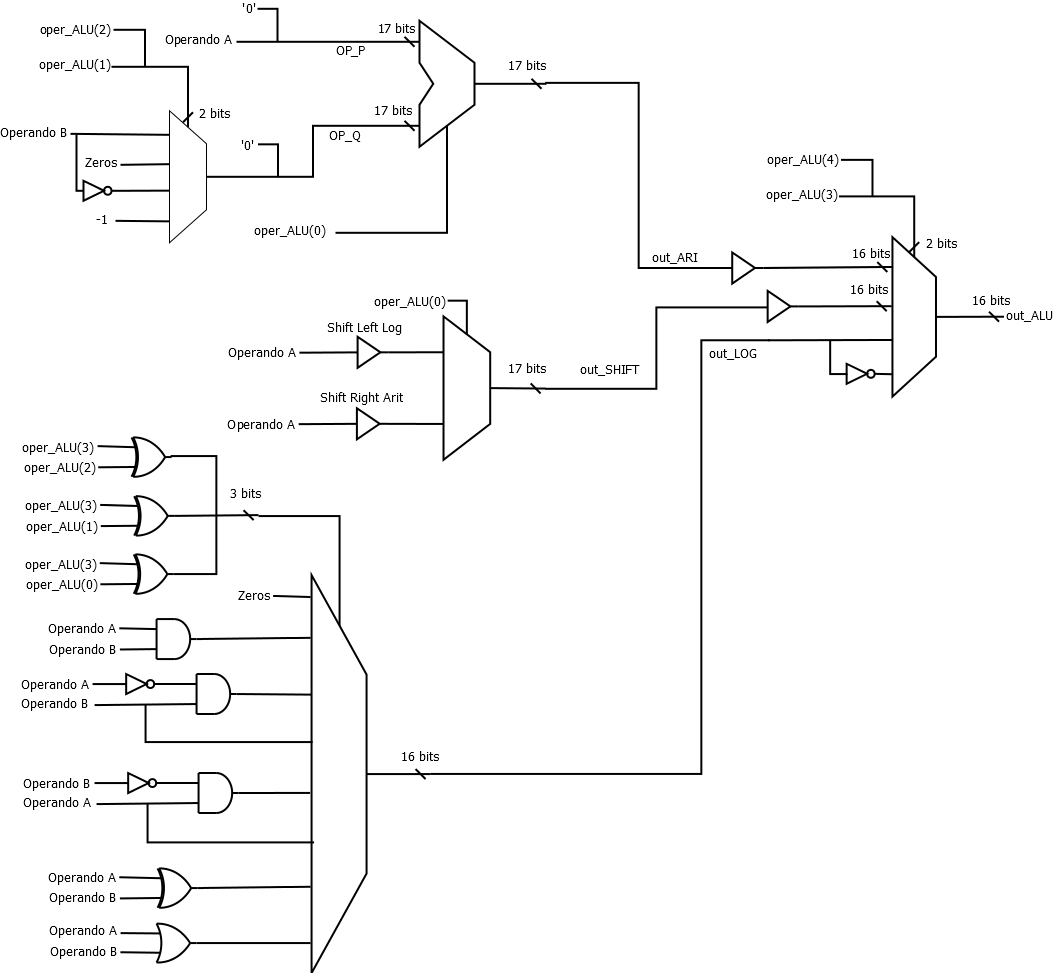
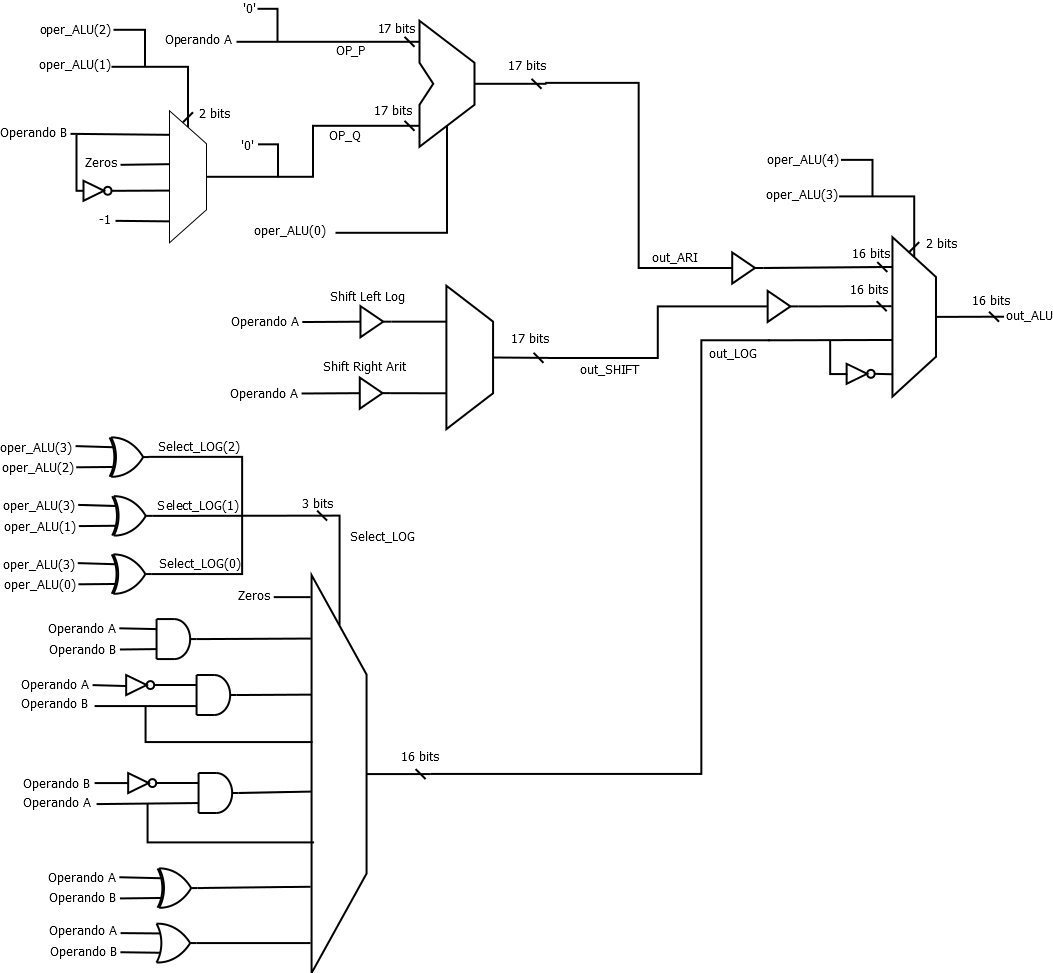
ALU 1.9

diff --git a/relatorio lab1/aac_lab1.tex b/relatorio lab1/aac_lab1.tex
@@ -154,12 +154,17 @@ No caso das operações lógicas, que representam 16 operações, fez-se um esfo
 
 TABELA
 
-Ao observar o sinal \texttt{oper\_ALU(2 {\footnotesize downto} 0)}
+Ao observar o sinal \texttt{oper\_ALU(2 {\footnotesize downto} 0)} e as suas operações podemos perceber que quando temos um valor específico de \texttt{oper\_ALU(2 {\footnotesize downto} 0)} com a sua respectiva operação, o valor negado desse valor representa a negação da operação. Podendo assim criar um mux apenas com 8 entradas entradas e com um sinal de selecção que permite selecionar a operação X quando de facto desejamos a operação !X, como representa a seguinte figura:
+
+FIGURA
+
+Será no entanto, quando necessário, negar a operação, esta negação será efectuada no mux final da ALU como demonstrado na figura %refrenciar a figura assinalada.
+
 De notar que a saída das operações lógicas necessita apenas de 16 \textit{bits} e não 17 pois uma operação lógica não produz \textit{carry}.
-\todo{ALU - falar das operações logicas e o mux de 16->8 entradas e a figura para as flags}
 
 Finalmente, após a verificação das \textit{flags}, tem-se um MUX de 4:1, onde as entradas de 17 \textit{bits} são reduzidas para 16 \textit{bits}, retirando-lhes o \textit{bit} mais significativo que, relembre-se, tinha como objectivo a verificação da flag de \textit{cary}. A saída deste MUX é um sinal de 16 \textit{bits} que representa o resultado da operação da ALU, tal como se pode verificar na figura seguinte.
 
+%quero referir esta figura
 FIGURA
 
 Para cada um dos três sinais de saída (\texttt{out\_ARI}, \texttt{out\_SHIFT} e \texttt{out\_LOG}) é criado um sinal que corresponde às \textit{flags} que cada operação pode actualizar. No caso das operações aritméticas é criado um sinal de 4 \textit{bits} com as quatro \textit{flags} atualizadas indiscriminadamente. No caso das operações de \textit{shift} é criado um sinal de 3 \textit{bits} apenas pois, as \textit{flags} que podem vir a ser actualizadas nessas duas operações, são a flag de \texttt{Zero}, de \texttt{Negative} e de \texttt{Carry}. No caso das operações lógicas é criado um sinal com apenas dois \textit{bits} que representam as \textit{flags} que poderão ser atualizadas neste tipo de operações, a \textit{flag} de \texttt{Zero} e de \texttt{Negative}.
